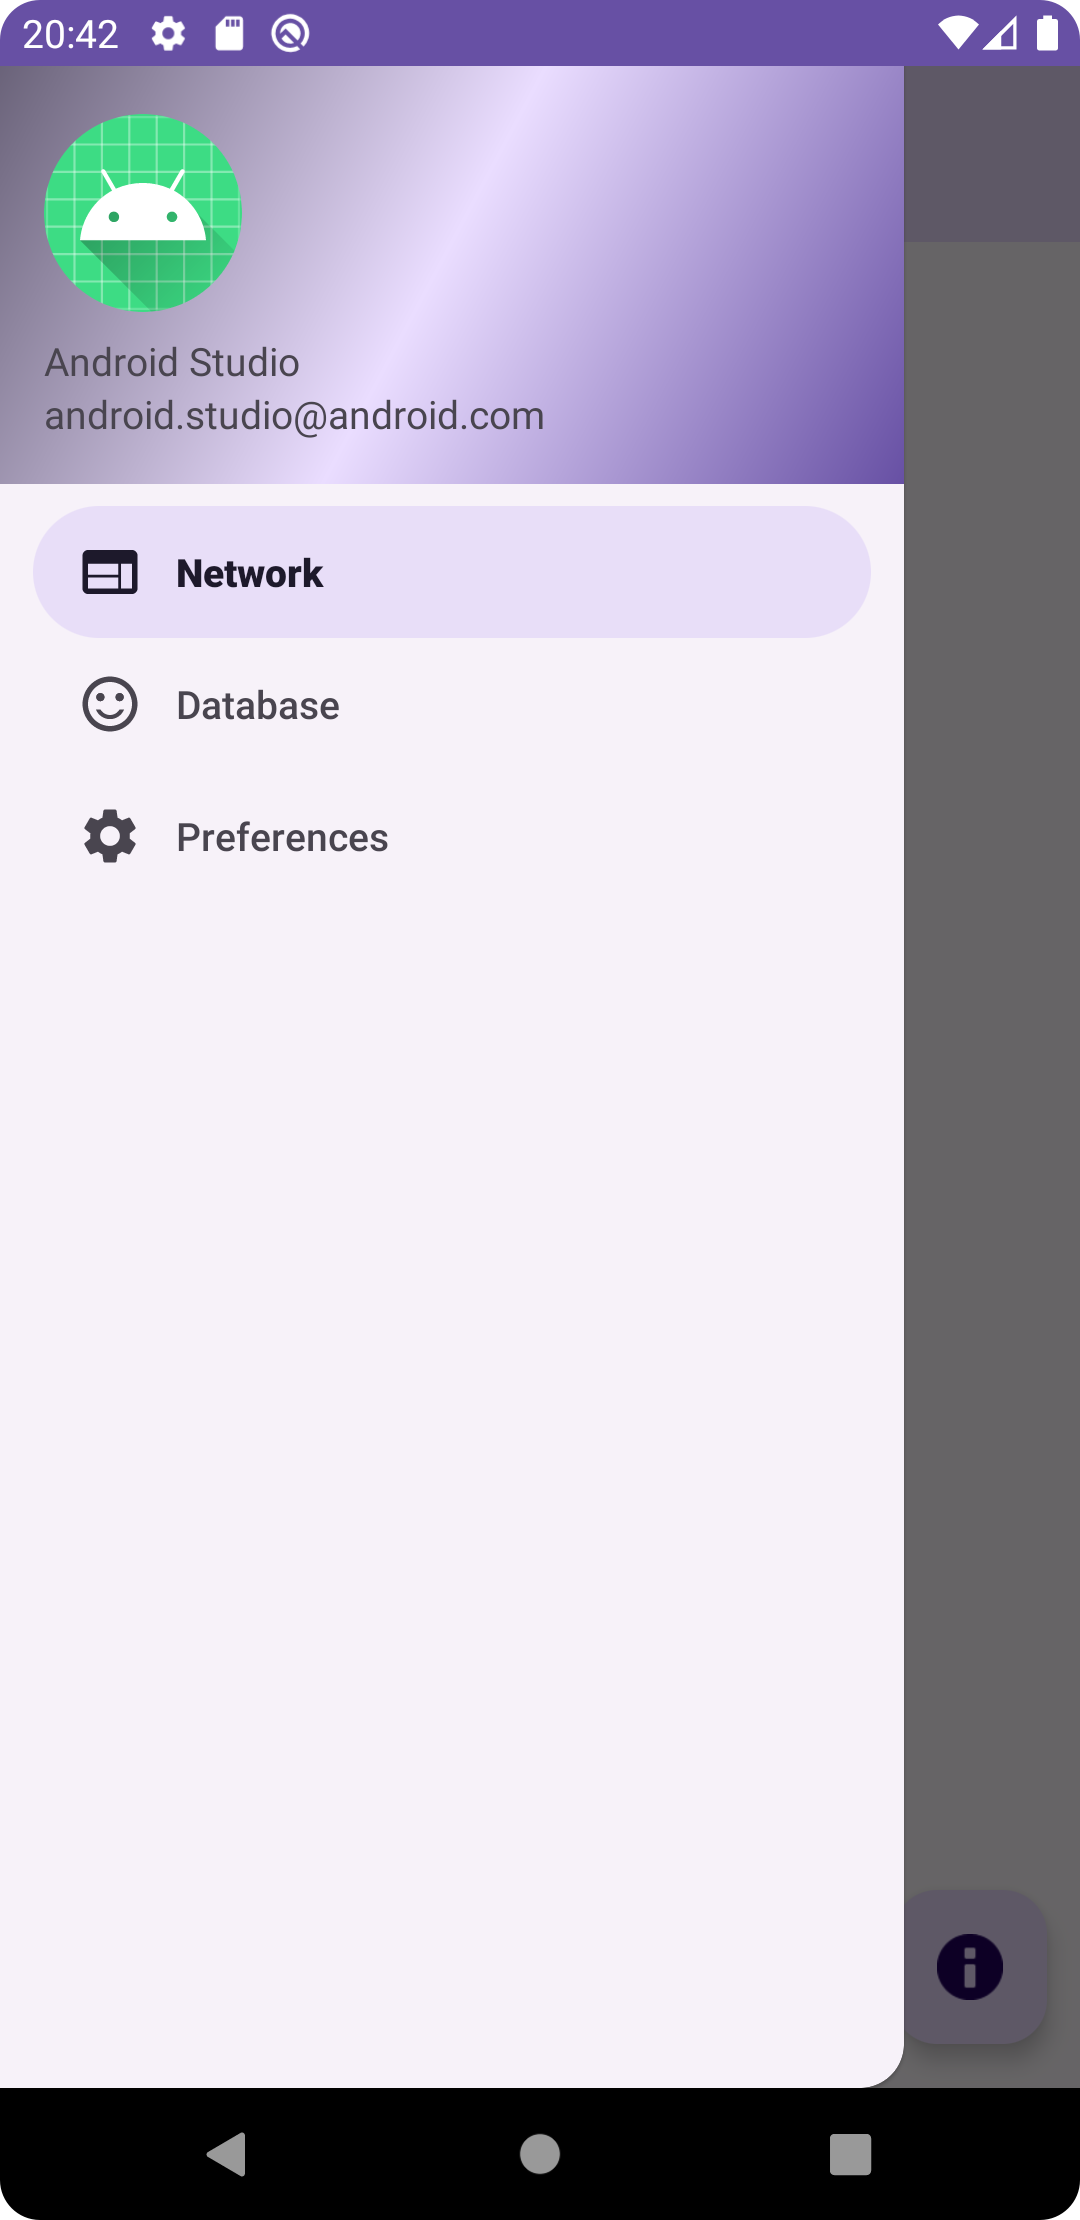
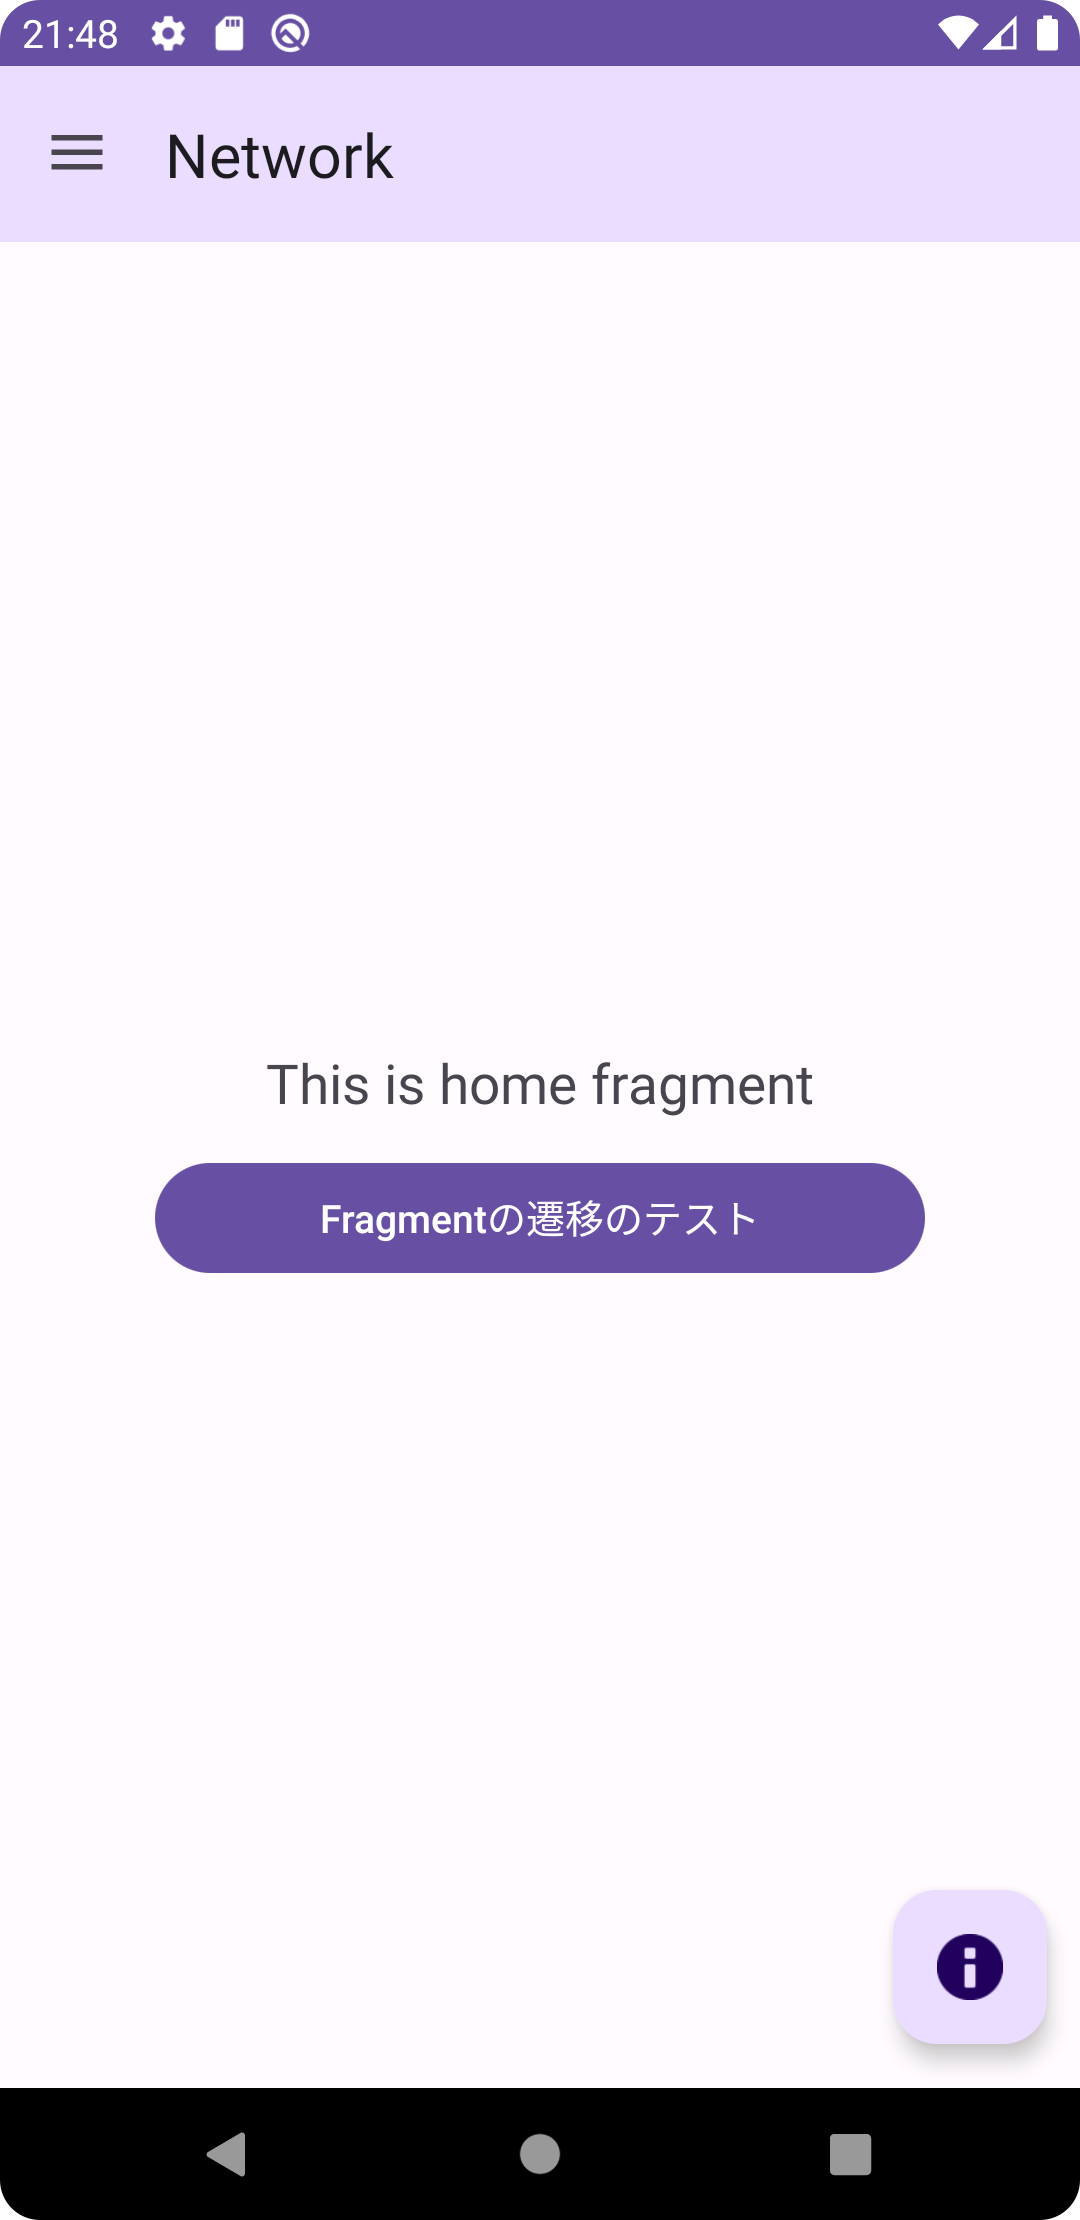
update

diff --git a/app/src/main/java/com/template/androidbasicapp/ui/fragment/NetworkDemoFragment.java b/app/src/main/java/com/template/androidbasicapp/ui/fragment/NetworkDemoFragment.java
@@ -2,17 +2,22 @@ package com.template.androidbasicapp.ui.fragment;
 
 import android.os.Bundle;
 import android.view.View;
-import android.widget.TextView;
 
 import androidx.annotation.NonNull;
 import androidx.annotation.Nullable;
 import androidx.fragment.app.Fragment;
 import androidx.lifecycle.ViewModelProvider;
+import androidx.navigation.fragment.NavHostFragment;
+
+import com.template.androidbasicapp.BuildConfig;
 import com.template.androidbasicapp.databinding.FragmentNetworkDemoBinding;
 
 import com.template.androidbasicapp.R;
 import com.template.androidbasicapp.ui.viewmodel.NetworkDemoViewModel;
 
+/**
+ * 機能のTop画面
+ */
 public class NetworkDemoFragment extends Fragment {
 
     private FragmentNetworkDemoBinding binding;
@@ -28,8 +33,17 @@ public class NetworkDemoFragment extends Fragment {
         super.onViewCreated(view, savedInstanceState);
         viewModel = new ViewModelProvider(this).get(NetworkDemoViewModel.class);
         binding = FragmentNetworkDemoBinding.bind(view);
-        final TextView textView = binding.textHome;
-        viewModel.getText().observe(getViewLifecycleOwner(), textView::setText);
+        viewModel.getText().observe(getViewLifecycleOwner(), binding.textHome::setText);
+
+        if (!BuildConfig.FLAVOR.equals("simple")) {
+            binding.btnNextFragment.setOnClickListener(v -> {
+                NavHostFragment.findNavController(this).navigate(
+                        NetworkDemoFragmentDirections.actionNetworkDemoFragmentToSecondFragment(binding.textHome.getText().toString())
+                );
+            });
+        } else {
+            binding.btnNextFragment.setVisibility(View.INVISIBLE);
+        }
     }
 
     @Override

diff --git a/app/src/main/java/com/template/androidbasicapp/ui/fragment/SecondFragment.java b/app/src/main/java/com/template/androidbasicapp/ui/fragment/SecondFragment.java
@@ -1,0 +1,34 @@
+package com.template.androidbasicapp.ui.fragment;
+
+import android.os.Bundle;
+
+import androidx.annotation.NonNull;
+import androidx.annotation.Nullable;
+import androidx.fragment.app.Fragment;
+
+import android.view.View;
+
+import com.template.androidbasicapp.R;
+import com.template.androidbasicapp.databinding.FragmentSecondBinding;
+
+public class SecondFragment extends Fragment {
+    private FragmentSecondBinding binding;
+
+    public SecondFragment() {
+        super(R.layout.fragment_second);
+    }
+
+    @Override
+    public void onViewCreated(@NonNull View view, @Nullable Bundle savedInstanceState) {
+        super.onViewCreated(view, savedInstanceState);
+        binding = FragmentSecondBinding.bind(view);
+        final String message = SecondFragmentArgs.fromBundle(getArguments()).getMessage();
+        binding.txtMessage.setText(message);
+    }
+
+    @Override
+    public void onDestroyView() {
+        super.onDestroyView();
+        binding = null;
+    }
+}

diff --git a/app/src/main/java/com/template/androidbasicapp/ui/fragment/DatabaseDemoFragment.java b/app/src/main/java/com/template/androidbasicapp/ui/fragment/DatabaseDemoFragment.java
@@ -12,7 +12,9 @@ import androidx.lifecycle.ViewModelProvider;
 import com.template.androidbasicapp.R;
 import com.template.androidbasicapp.databinding.FragmentDatabaseDemoBinding;
 import com.template.androidbasicapp.ui.viewmodel.DatabaseDemoViewModel;
-
+/**
+ * 機能のTop画面
+ */
 public class DatabaseDemoFragment extends Fragment {
 
     private FragmentDatabaseDemoBinding binding;

diff --git a/app/src/main/java/com/template/androidbasicapp/ui/fragment/PreferencesDemoFragment.java b/app/src/main/java/com/template/androidbasicapp/ui/fragment/PreferencesDemoFragment.java
@@ -13,6 +13,9 @@ import com.template.androidbasicapp.R;
 import com.template.androidbasicapp.databinding.FragmentPreferencesDemoBinding;
 import com.template.androidbasicapp.ui.viewmodel.PreferencesDemoViewModel;
 
+/**
+ * 機能のTop画面
+ */
 public class PreferencesDemoFragment extends Fragment {
 
     private FragmentPreferencesDemoBinding binding;
